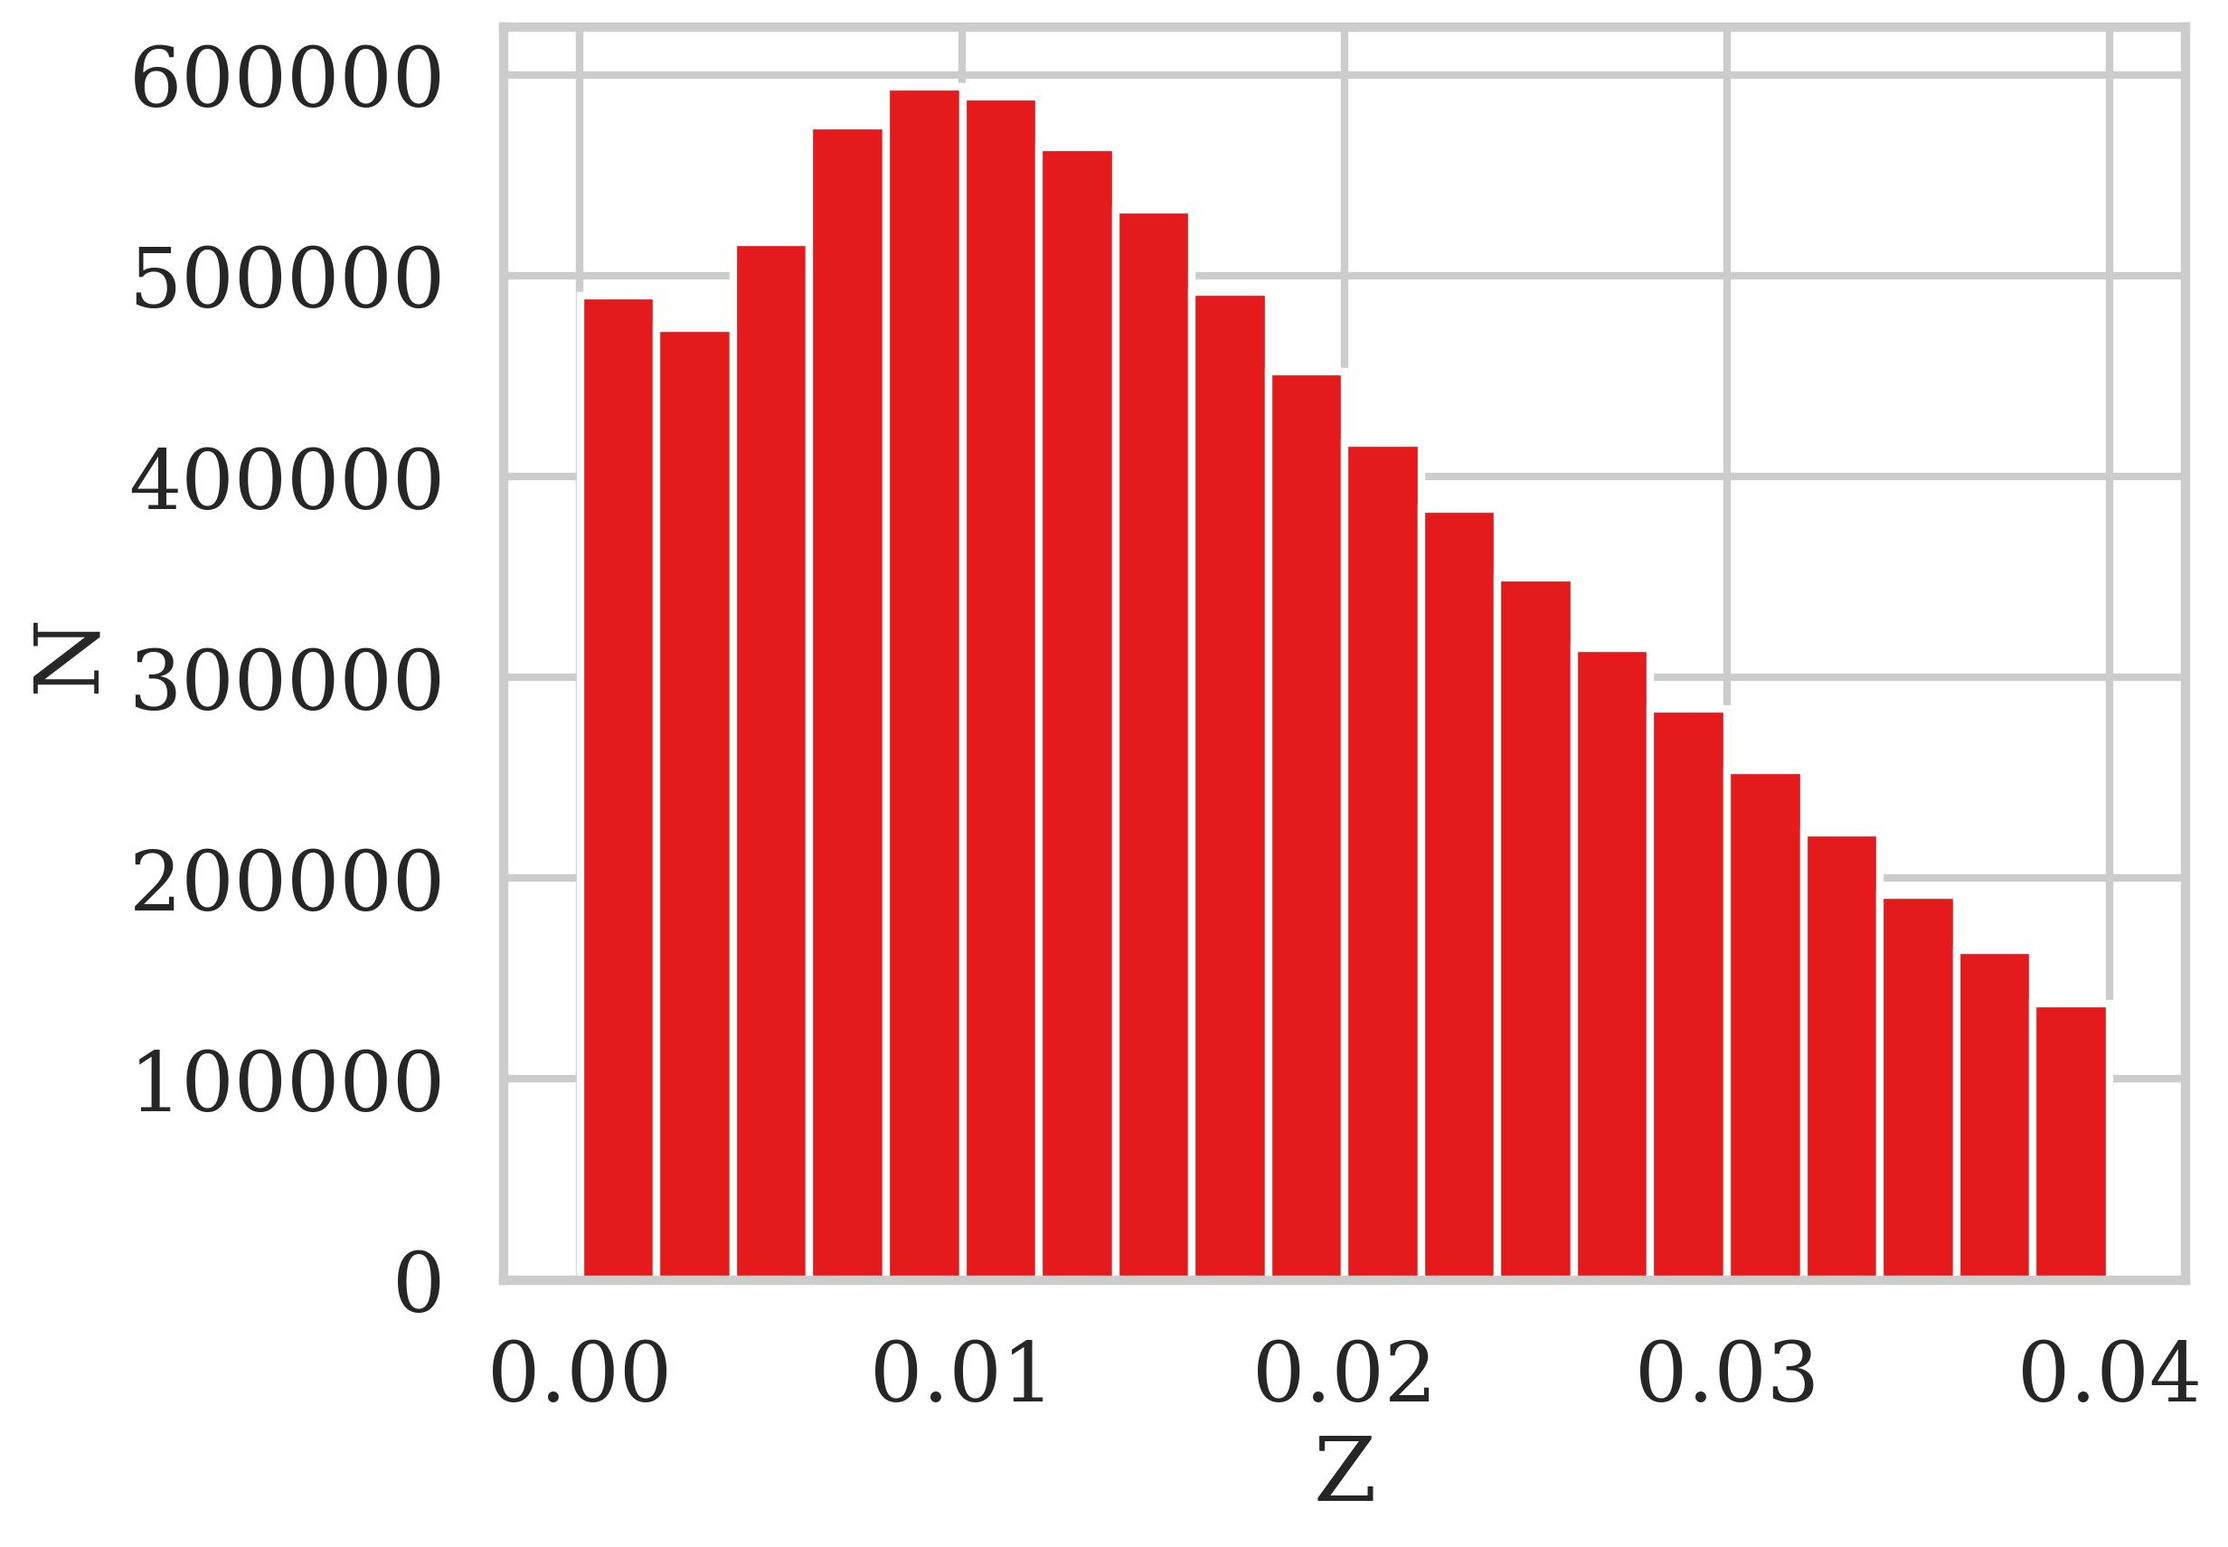
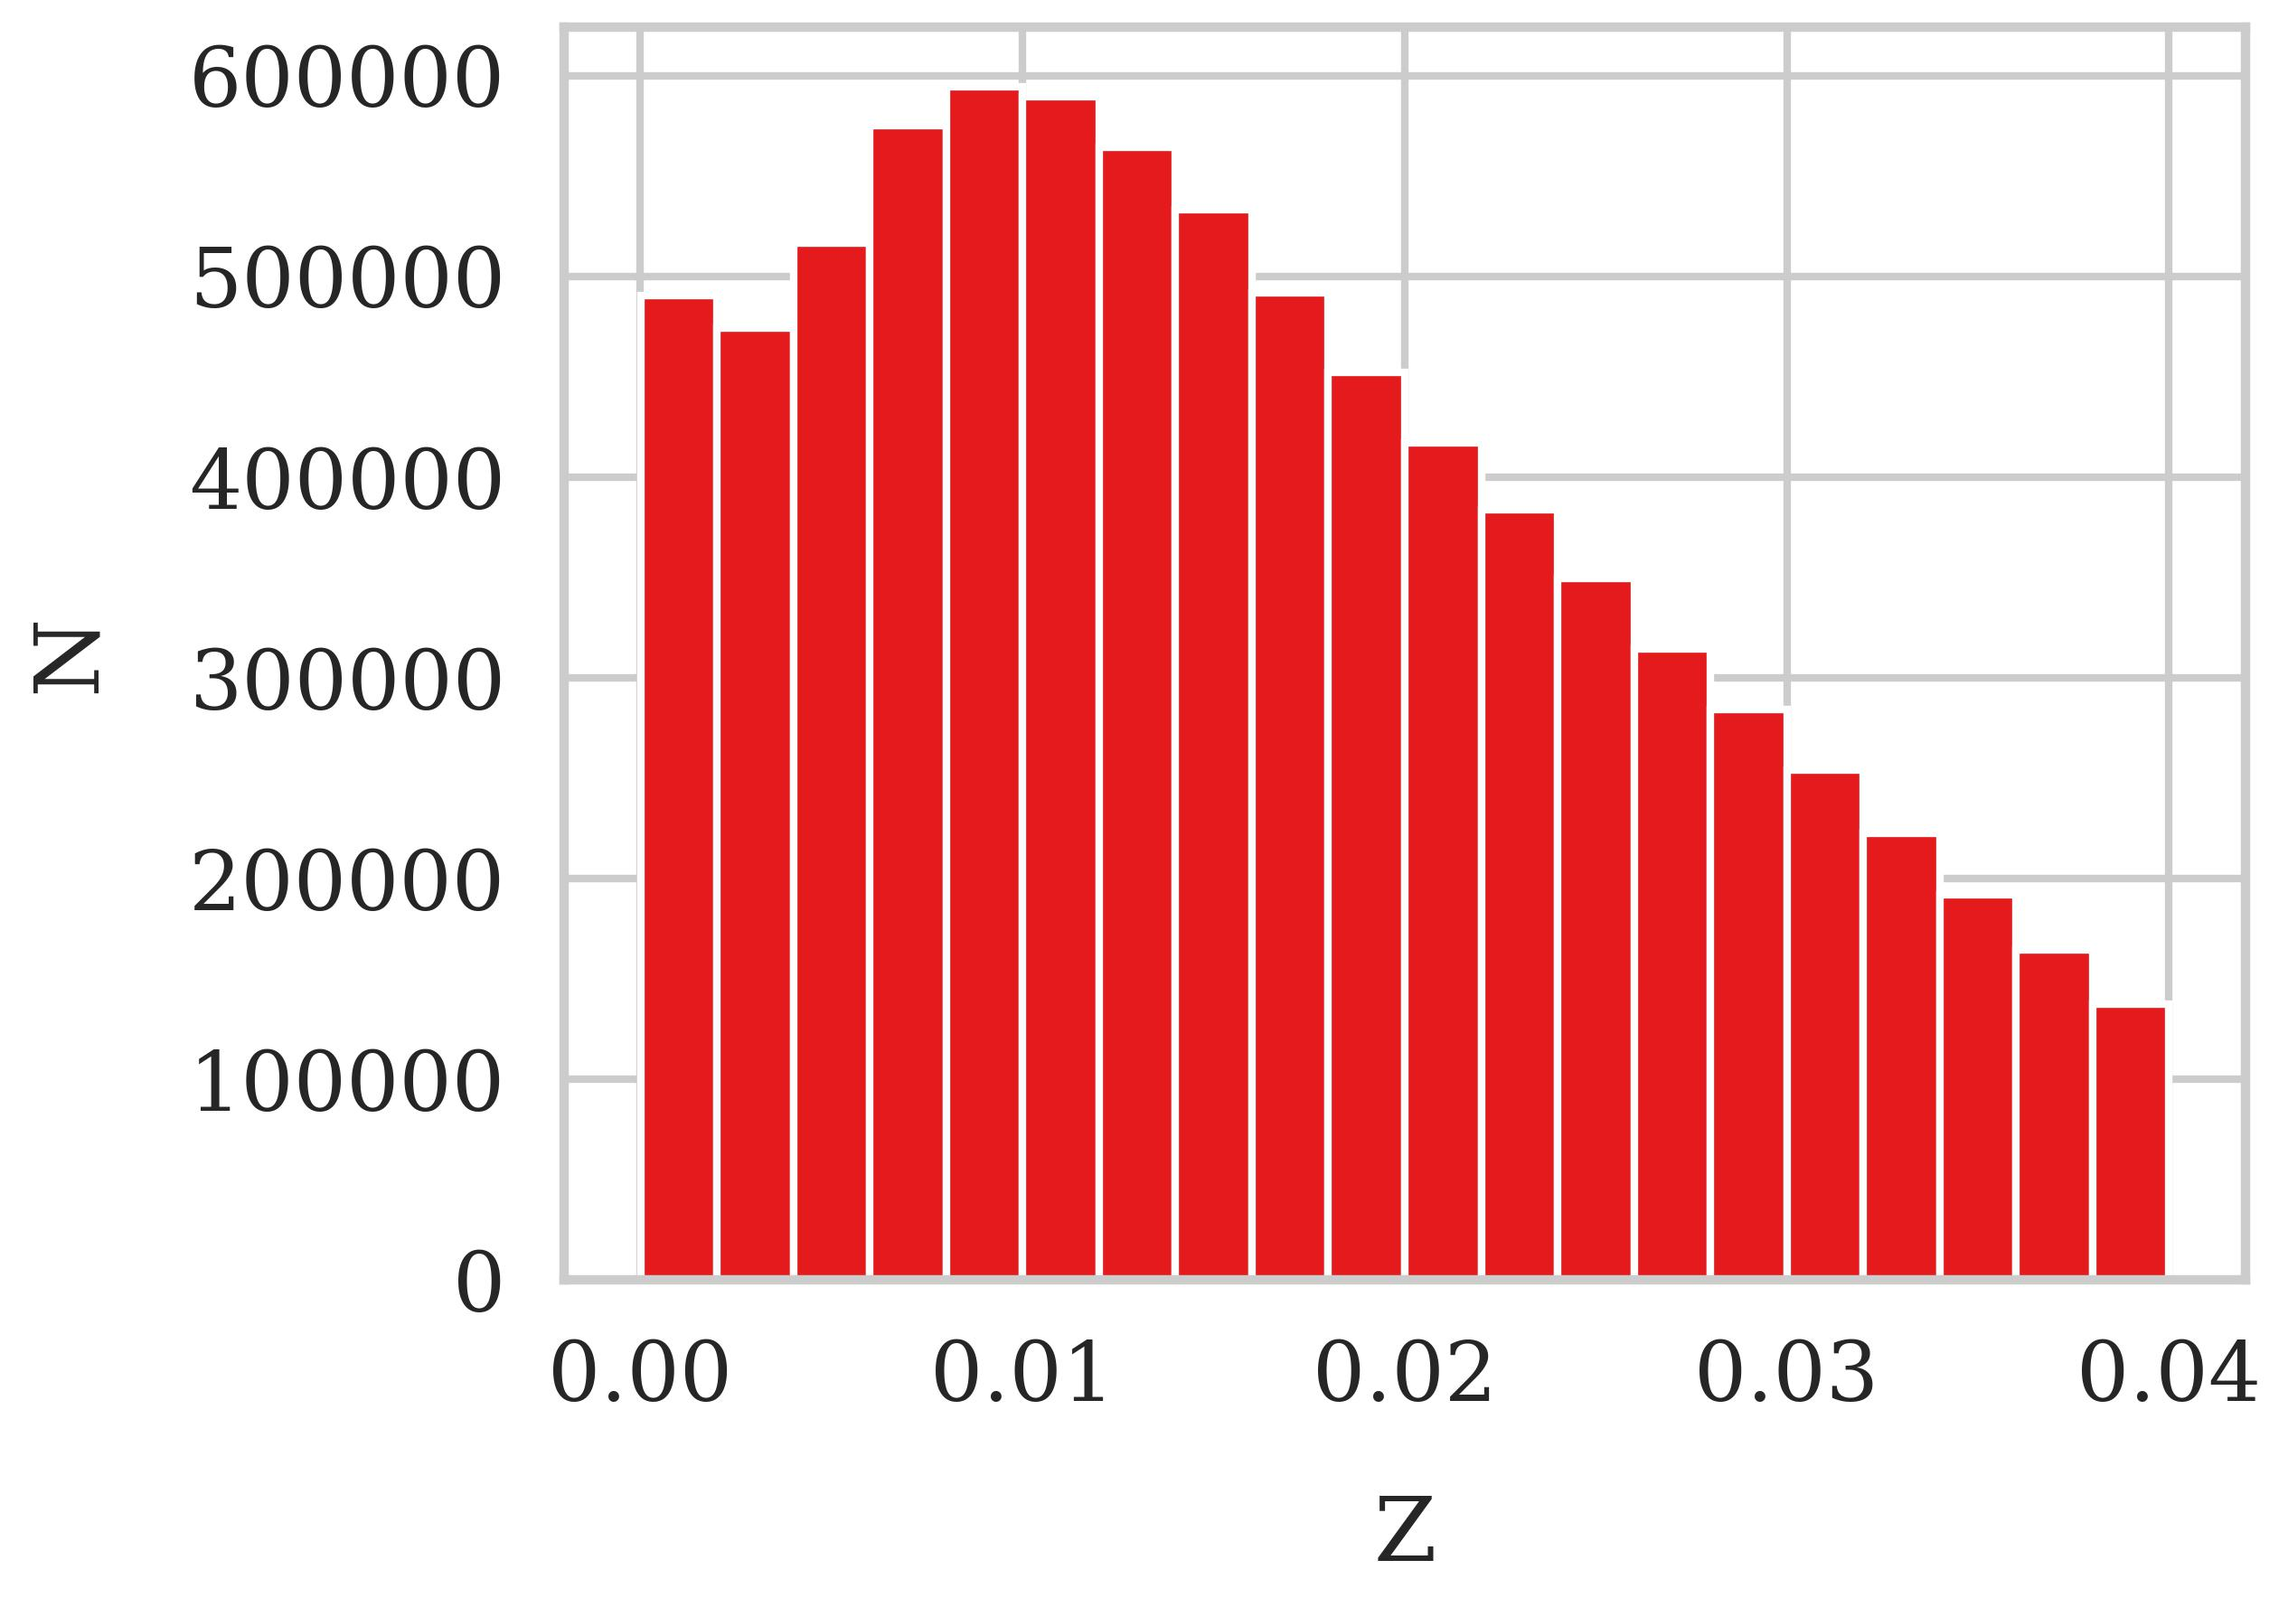
try new fix

Changed region(s): [[0.0, 0.0, 1.0, 0.9912], [0.9375, 0.031, 0.9688, 0.062]]

diff --git a/mcmc/analyzeMCMC.py b/mcmc/analyzeMCMC.py
@@ -12,10 +12,8 @@ import corner
 
 sb.set(context='poster', style='whitegrid', palette='Set1')
 plt.rcParams["font.family"] = "serif"
-plt.rcParams["figure.constrained_layout.h_pad"] = 0.25
-plt.rcParams["figure.constrained_layout.w_pad"] = 0.25
 plt.rcParams["figure.dpi"] = 300
-
+plt.rcParams["axes.labelpad"] = 20
 
 def plotCorner(chain, log):
     '''
